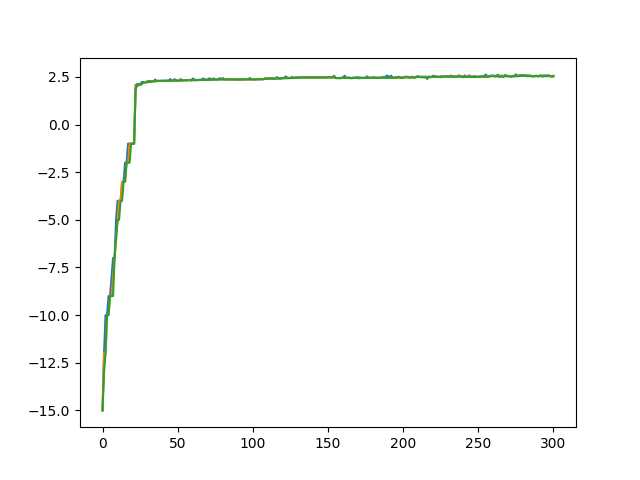
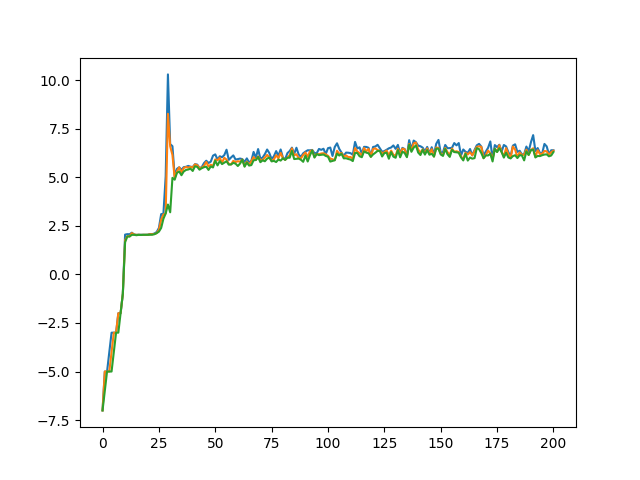
cleanup

diff --git a/genetic.py b/genetic.py
@@ -45,8 +45,7 @@ class TopoOptimizer():
         for individual in self.POP:
             if individual.isolated_hosts > 0:
                 individual.fitness = -individual.isolated_hosts
-            elif individual.counter <= 0 or individual.fitness == 0:
-                individual.counter = 1
+            else:
                 loss, rtt, conns = testone(individual.topo, self.interval)
                 if conns == 0:
                     avg_rtt = 1000
@@ -54,7 +53,6 @@ class TopoOptimizer():
                     avg_rtt = rtt / conns
 
                 avg_loss = loss / total_conns
-                throughput = 1.0 - avg_loss
                 efficiency = 1.0 - float(len(individual.edges))/float(len(self.possible_edges))
                 individual.ploss = avg_loss
                 individual.rtt = avg_rtt
@@ -63,12 +61,11 @@ class TopoOptimizer():
                     individual.fitness == 0
                 else:
                     individual.fitness = efficiency * 100. / (avg_rtt * math.sqrt(avg_loss))
-            individual.counter -= 1
         self.POP.sort(key = lambda i: i.fitness, reverse = True)
 
-        if self.POP[0].ploss < 0.05:
+        if self.POP[0].ploss < 0.7:
             self.interval = max(self.interval - 0.01, 0.02)
-        if self.POP[0].ploss > 0.1:
+        if self.POP[0].ploss > 0.15:
             self.interval = min(self.interval + 0.01, 0.2)
 
     def recombine(self, i1, i2):
@@ -140,5 +137,5 @@ class TopoOptimizer():
         plt.clf()
 
 if __name__ == '__main__':
-    opt = TopoOptimizer(16, [8,6,4])
-    opt.run(101)
+    opt = TopoOptimizer(32, [8,4,4])
+    opt.run(201)

diff --git a/test.py b/test.py
@@ -25,7 +25,7 @@ def testone(topo, interval = 0.1):
     for h in hosts:
         for g in hosts:
             if g != h:
-                popens[(h,g)] = h.popen("ping -w 1 -i {} -q {}".format(interval, g.IP()))
+                popens[(h,g)] = h.popen("sudo ping -w 1 -i {} -q {}".format(interval, g.IP()))
 
     # Monitor them and print output
     loss = 0

diff --git a/plot.py b/plot.py
@@ -2,7 +2,7 @@ import matplotlib.pyplot as plt
 import networkx as nx
 import math
 
-path = 'img/gen50.graphml'
+path = 'img/gen200.graphml'
 G = nx.read_graphml(path)
 colormap = []
 color_dict = {}
